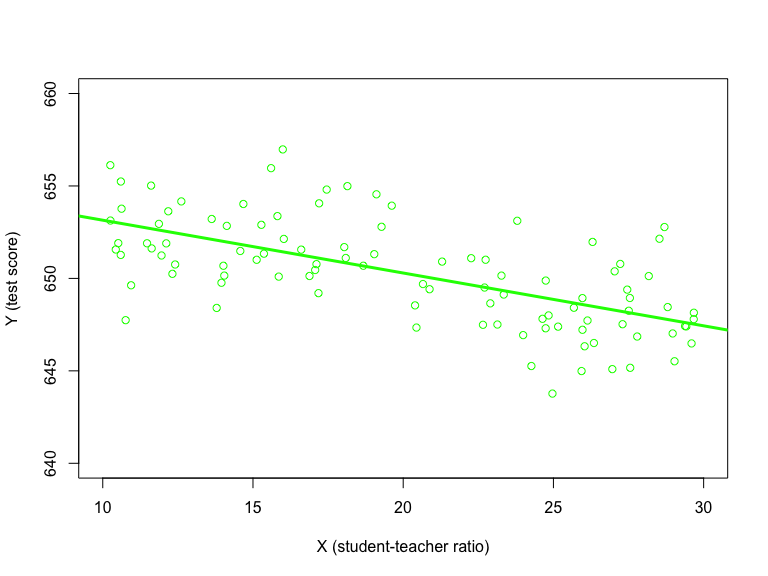
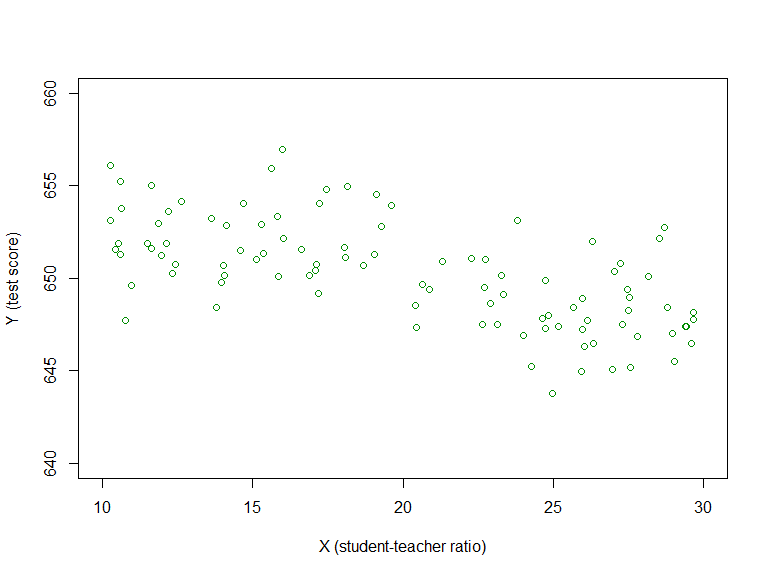
Updated slides

diff --git a/index.html b/index.html
@@ -545,6 +545,9 @@ EC2203 | Royal Holloway | 2020/21
 </section><section id="why-do-we-need-the-zero-conditional-mean-assumption-2" class="slide level2">
 <h2>Why do we need the zero conditional mean assumption?</h2>
 <p><span class="math display">\[Y_i = \beta_0 + \beta_1 X_i + u_i; \quad \beta_1 =0; \, \mathrm{cov}(u_i,X_i) &lt; 0\]</span> <img data-src="index_files/figure-revealjs/unnamed-chunk-4-1.png" /><!-- --></p>
+</section><section id="why-do-we-need-the-zero-conditional-mean-assumption-3" class="slide level2">
+<h2>Why do we need the zero conditional mean assumption?</h2>
+<p><span class="math display">\[Y_i = \beta_0 + \beta_1 X_i + u_i; \quad \beta_1 =0; \, \mathrm{cov}(u_i,X_i) &lt; 0\]</span> <img data-src="index_files/figure-revealjs/unnamed-chunk-5-1.png" /><!-- --></p>
 </section></section>
 <section><section id="summary" class="title-slide slide level1"><h1>Summary</h1></section><section id="summary-1" class="slide level2">
 <h2>Summary</h2>
